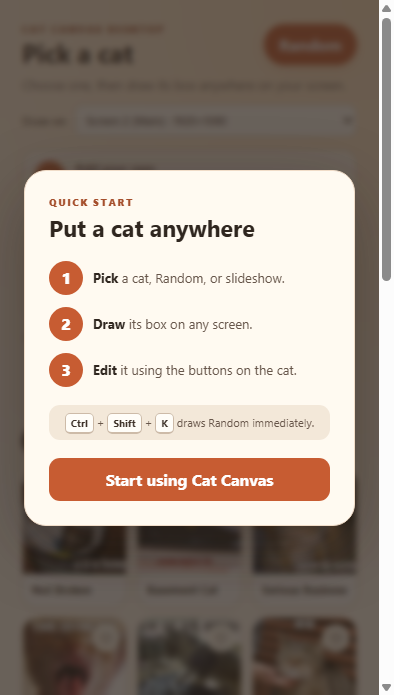
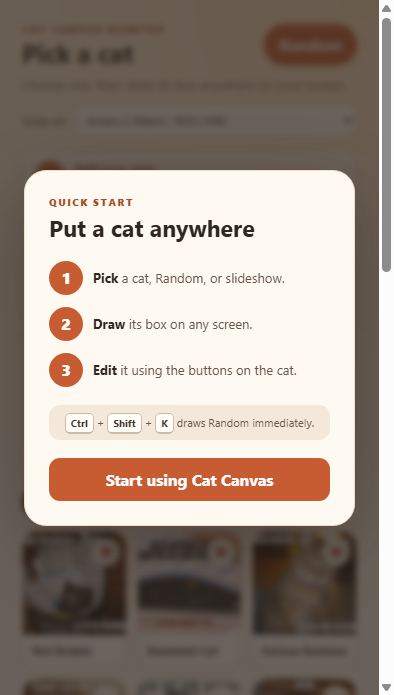
Let users choose the Random shortcut

diff --git a/src/main.js b/src/main.js
@@ -5,8 +5,8 @@ const { pathToFileURL } = require("node:url");
 const cats = require("./cats");
 const { nextDisplayId, slideshowChoices, slideshowDelayMs } = require("./media-utils");
 const { loginLaunchOptions } = require("./startup-utils");
+const { DEFAULT_SHORTCUT, SHORTCUT_CHOICES, normalizeShortcut, shortcutLabel } = require("./shortcut-utils");
 
-const SHORTCUT = "CommandOrControl+Shift+K";
 const VALID_EXTENSIONS = new Set([".jpg", ".jpeg", ".png", ".webp", ".gif"]);
 const MAX_CUSTOM_BYTES = 12 * 1024 * 1024;
 const STARTUP_NAME = "Cat Canvas Desktop";
@@ -17,7 +17,7 @@ const overlayWindows = new Map();
 let tray;
 let quitting = false;
 let activeDrawingRecord;
-let settings = { favorites: [], customMedia: [], startWithWindows: false, tutorialSeen: false };
+let settings = { favorites: [], customMedia: [], startWithWindows: false, tutorialSeen: false, shortcut: DEFAULT_SHORTCUT };
 
 function log(message) {
   try {
@@ -44,10 +44,11 @@ function loadSettings() {
         ? parsed.customMedia.filter((item) => typeof item?.path === "string" && fs.existsSync(item.path))
         : [],
       startWithWindows: parsed.startWithWindows === true,
-      tutorialSeen: parsed.tutorialSeen === true
+      tutorialSeen: parsed.tutorialSeen === true,
+      shortcut: normalizeShortcut(parsed.shortcut)
     };
   } catch {
-    settings = { favorites: [], customMedia: [], startWithWindows: false, tutorialSeen: false };
+    settings = { favorites: [], customMedia: [], startWithWindows: false, tutorialSeen: false, shortcut: DEFAULT_SHORTCUT };
   }
 }
 
@@ -104,7 +105,12 @@ function publicState() {
   return {
     cats: [...builtInMedia(), ...customMedia()],
     favorites: settings.favorites,
-    shortcut: process.platform === "darwin" ? "Cmd+Shift+K" : "Ctrl+Shift+K",
+    shortcut: shortcutLabel(settings.shortcut),
+    shortcutAccelerator: settings.shortcut,
+    shortcutChoices: SHORTCUT_CHOICES.map((choice) => ({
+      accelerator: choice.accelerator,
+      label: shortcutLabel(choice.accelerator)
+    })),
     startWithWindows: settings.startWithWindows,
     tutorialSeen: settings.tutorialSeen,
     screens: displays.map((display, index) => ({
@@ -254,19 +260,43 @@ function startDrawing(id = "random", slideshow = [], slideshowDelay = 10000, dis
   if (pickerWindow && !pickerWindow.isDestroyed()) pickerWindow.hide();
 }
 
-function createTray() {
-  tray = new Tray(path.join(app.getAppPath(), "assets", "icons", "icon-32.png"));
-  tray.setToolTip("Cat Canvas Desktop");
+function updateTrayMenu() {
+  if (!tray) return;
   tray.setContextMenu(Menu.buildFromTemplate([
     { label: "Open Cat Picker", click: showPicker },
-    { label: "Draw Random Cat", accelerator: SHORTCUT, click: () => startDrawing("random") },
+    { label: `Draw Random Cat (${shortcutLabel(settings.shortcut)})`, click: () => startDrawing("random") },
     { type: "separator" },
     { label: "Unlock All Overlays", click: () => broadcastToOverlays("overlay:unlock-all") },
     { label: "Clear All Overlays", click: () => broadcastToOverlays("overlay:clear") },
     { type: "separator" },
     { label: "Quit", click: () => { quitting = true; app.quit(); } }
   ]));
+}
+
+function createTray() {
+  tray = new Tray(path.join(app.getAppPath(), "assets", "icons", "icon-32.png"));
+  tray.setToolTip("Cat Canvas Desktop");
+  updateTrayMenu();
   tray.on("click", showPicker);
+}
+
+function registerRandomShortcut(accelerator) {
+  return globalShortcut.register(accelerator, () => startDrawing("random"));
+}
+
+function applyRandomShortcut(nextShortcut) {
+  const chosen = normalizeShortcut(nextShortcut);
+  const previous = settings.shortcut;
+  if (chosen === previous && globalShortcut.isRegistered(previous)) return true;
+
+  globalShortcut.unregister(previous);
+  if (registerRandomShortcut(chosen)) {
+    settings.shortcut = chosen;
+    return true;
+  }
+
+  registerRandomShortcut(previous);
+  return false;
 }
 
 function shapeForSize(width, height) {
@@ -353,6 +383,17 @@ ipcMain.handle("tutorial:dismiss", () => {
   settings.tutorialSeen = true;
   saveSettings();
   return publicState();
+});
+ipcMain.handle("shortcut:set", (_event, accelerator) => {
+  const chosen = normalizeShortcut(accelerator);
+  if (!applyRandomShortcut(chosen)) {
+    log(`Could not register shortcut ${chosen}.`);
+    return { state: publicState(), message: "That shortcut is already being used by another app.", error: true };
+  }
+  saveSettings();
+  updateTrayMenu();
+  broadcastState();
+  return { state: publicState(), message: `Random shortcut changed to ${shortcutLabel(settings.shortcut)}.` };
 });
 ipcMain.handle("custom:remove", (_event, id) => {
   settings.customMedia = settings.customMedia.filter((item) => item.id !== id);
@@ -442,7 +483,15 @@ else {
     });
     log("Creating tray.");
     createTray();
-    globalShortcut.register(SHORTCUT, () => startDrawing("random"));
+    if (!registerRandomShortcut(settings.shortcut)) {
+      log(`Could not register saved shortcut ${settings.shortcut}.`);
+      if (settings.shortcut !== DEFAULT_SHORTCUT) {
+        settings.shortcut = DEFAULT_SHORTCUT;
+        if (!registerRandomShortcut(settings.shortcut)) log("Could not register the default Random shortcut.");
+        saveSettings();
+        updateTrayMenu();
+      }
+    }
     log("Cat Canvas Desktop is ready.");
   }).catch((error) => {
     log(`Startup failed: ${error.stack || error.message}`);

diff --git a/src/picker.js b/src/picker.js
@@ -5,7 +5,9 @@ const targetScreen = document.querySelector("#target-screen");
 const startupToggle = document.querySelector("#start-with-windows");
 const tutorial = document.querySelector("#tutorial");
 const closeTutorial = document.querySelector("#close-tutorial");
-let state = { cats: [], favorites: [], shortcut: "Ctrl+Shift+K", screens: [], currentScreenId: "", startWithWindows: false, tutorialSeen: false };
+const shortcutSelect = document.querySelector("#random-shortcut");
+const tutorialShortcut = document.querySelector("#tutorial-shortcut");
+let state = { cats: [], favorites: [], shortcut: "Ctrl+Shift+K", shortcutAccelerator: "CommandOrControl+Shift+K", shortcutChoices: [], screens: [], currentScreenId: "", startWithWindows: false, tutorialSeen: false };
 let currentFilter = "all";
 
 function showTutorial() {
@@ -31,6 +33,25 @@ function renderScreens() {
   targetScreen.value = state.screens.some((screen) => screen.id === previous) ? previous : state.currentScreenId;
 }
 
+function renderShortcut() {
+  shortcutSelect.replaceChildren();
+  for (const choice of state.shortcutChoices) {
+    const option = document.createElement("option");
+    option.value = choice.accelerator;
+    option.textContent = choice.label;
+    shortcutSelect.append(option);
+  }
+  shortcutSelect.value = state.shortcutAccelerator;
+  tutorialShortcut.replaceChildren();
+  const keys = state.shortcut.split("+");
+  keys.forEach((key, index) => {
+    if (index) tutorialShortcut.append(" + ");
+    const keycap = document.createElement("kbd");
+    keycap.textContent = key;
+    tutorialShortcut.append(keycap);
+  });
+}
+
 function visibleCats() {
   const favorites = new Set(state.favorites);
   return state.cats.filter((cat) => {
@@ -43,6 +64,7 @@ function visibleCats() {
 
 function render() {
   renderScreens();
+  renderShortcut();
   startupToggle.checked = Boolean(state.startWithWindows);
   const cats = visibleCats();
   const favorites = new Set(state.favorites);
@@ -148,6 +170,15 @@ startupToggle.addEventListener("change", async () => {
   status.className = `status${result.error ? " error" : ""}`;
   status.textContent = result.message;
   startupToggle.disabled = false;
+  render();
+});
+shortcutSelect.addEventListener("change", async () => {
+  shortcutSelect.disabled = true;
+  const result = await window.catCanvasDesktop.setShortcut(shortcutSelect.value);
+  state = result.state;
+  status.className = `status${result.error ? " error" : ""}`;
+  status.textContent = result.message;
+  shortcutSelect.disabled = false;
   render();
 });
 

diff --git a/tests/media.test.js b/tests/media.test.js
@@ -5,6 +5,7 @@ const test = require("node:test");
 const cats = require("../src/cats");
 const { shapeFor, suitableCats, randomSuitable, wrapIndex, slideshowDelayMs, slideshowChoices, nextDisplayId } = require("../src/media-utils");
 const { loginLaunchOptions } = require("../src/startup-utils");
+const { DEFAULT_SHORTCUT, SHORTCUT_CHOICES, normalizeShortcut, shortcutLabel } = require("../src/shortcut-utils");
 
 test("the built-in pack contains 12 stills and 12 GIFs", () => {
   assert.equal(cats.length, 24);
@@ -93,5 +94,12 @@ test("the picker includes a reusable first-time guide", () => {
   const picker = fs.readFileSync(path.join(__dirname, "..", "src", "picker.html"), "utf8");
   assert.match(picker, /id="tutorial"/);
   assert.match(picker, /id="show-tutorial"/);
-  assert.match(picker, /Ctrl<\/kbd> \+ <kbd>Shift<\/kbd> \+ <kbd>K/);
+  assert.match(picker, /id="tutorial-shortcut"/);
+});
+
+test("Random shortcut choices are limited to safe presets", () => {
+  assert.equal(SHORTCUT_CHOICES.length, 4);
+  assert.equal(normalizeShortcut("not-a-shortcut"), DEFAULT_SHORTCUT);
+  assert.equal(shortcutLabel("CommandOrControl+Alt+K", "win32"), "Ctrl+Alt+K");
+  assert.equal(shortcutLabel(DEFAULT_SHORTCUT, "darwin"), "Cmd+Shift+K");
 });

diff --git a/scripts/capture-picker-preload.js b/scripts/capture-picker-preload.js
@@ -10,6 +10,13 @@ const state = {
   })),
   favorites: [cats[0].id, cats[1].id, cats[2].id],
   shortcut: "Ctrl+Shift+K",
+  shortcutAccelerator: "CommandOrControl+Shift+K",
+  shortcutChoices: [
+    { accelerator: "CommandOrControl+Shift+K", label: "Ctrl+Shift+K" },
+    { accelerator: "CommandOrControl+Shift+C", label: "Ctrl+Shift+C" },
+    { accelerator: "CommandOrControl+Alt+K", label: "Ctrl+Alt+K" },
+    { accelerator: "Alt+Shift+K", label: "Alt+Shift+K" }
+  ],
   startWithWindows: false,
   tutorialSeen: !process.argv.includes("--tutorial"),
   screens: [
@@ -29,6 +36,11 @@ contextBridge.exposeInMainWorld("catCanvasDesktop", {
   startSlideshow: async () => ({ started: true, message: "Demo" }),
   setStartWithWindows: async () => ({ state, message: "Demo" }),
   dismissTutorial: async () => state,
+  setShortcut: async (accelerator) => {
+    state.shortcutAccelerator = accelerator;
+    state.shortcut = state.shortcutChoices.find((choice) => choice.accelerator === accelerator)?.label || state.shortcut;
+    return { state, message: "Demo" };
+  },
   clearAll: () => {},
   hidePicker: () => {},
   onStateChanged: () => {}

diff --git a/src/picker.html b/src/picker.html
@@ -17,7 +17,7 @@
           <li><span>2</span><p><strong>Draw</strong> its box on any screen.</p></li>
           <li><span>3</span><p><strong>Edit</strong> it using the buttons on the cat.</p></li>
         </ol>
-        <p class="tutorial-tip"><kbd>Ctrl</kbd> + <kbd>Shift</kbd> + <kbd>K</kbd> draws Random immediately.</p>
+        <p class="tutorial-tip"><span id="tutorial-shortcut" class="shortcut-keys"></span> draws Random immediately.</p>
         <button id="close-tutorial" class="tutorial-close" type="button">Start using Cat Canvas</button>
       </div>
     </section>
@@ -68,6 +68,11 @@
     <label class="startup-setting">
       <span><strong>Start with Windows</strong><small>Open quietly in the tray after sign-in</small></span>
       <input id="start-with-windows" type="checkbox" role="switch" />
+    </label>
+
+    <label class="shortcut-setting">
+      <span><strong>Random shortcut</strong><small>Draw immediately from anywhere</small></span>
+      <select id="random-shortcut" aria-label="Random cat keyboard shortcut"></select>
     </label>
 
     <nav class="filters" aria-label="Media filters">

diff --git a/src/picker.css b/src/picker.css
@@ -123,6 +123,12 @@ h1 { margin: 0; font-size: 25px; line-height: 1.1; }
 .startup-setting input:checked { border-color: #c75c32; background: #c75c32; }
 .startup-setting input:checked::after { transform: translateX(16px); }
 .startup-setting input:disabled { opacity: .55; cursor: wait; }
+.shortcut-setting { display: flex; align-items: center; justify-content: space-between; gap: 14px; margin: -7px 0 14px; padding: 10px 12px; border: 1px solid #eadccb; border-radius: 13px; background: #fffdf8; }
+.shortcut-setting strong, .shortcut-setting small { display: block; }
+.shortcut-setting strong { font-size: 12px; }
+.shortcut-setting small { margin-top: 2px; color: #8b7768; font-size: 10px; }
+.shortcut-setting select { min-width: 112px; border: 1px solid #d9c7b5; border-radius: 8px; padding: 6px; color: #4f4035; background: #fffdf8; font: 700 10px system-ui, sans-serif; }
+.shortcut-setting select:disabled { opacity: .55; cursor: wait; }
 footer { margin-top: 16px; padding-top: 12px; border-top: 1px solid #eadfce; }
 .status { margin: 0 0 10px; }
 .status.error { color: #ad342f; }

diff --git a/src/shortcut-utils.js b/src/shortcut-utils.js
@@ -1,0 +1,19 @@
+const SHORTCUT_CHOICES = Object.freeze([
+  { accelerator: "CommandOrControl+Shift+K", label: "Ctrl+Shift+K" },
+  { accelerator: "CommandOrControl+Shift+C", label: "Ctrl+Shift+C" },
+  { accelerator: "CommandOrControl+Alt+K", label: "Ctrl+Alt+K" },
+  { accelerator: "Alt+Shift+K", label: "Alt+Shift+K" }
+]);
+
+const DEFAULT_SHORTCUT = SHORTCUT_CHOICES[0].accelerator;
+
+function normalizeShortcut(value) {
+  return SHORTCUT_CHOICES.some((choice) => choice.accelerator === value) ? value : DEFAULT_SHORTCUT;
+}
+
+function shortcutLabel(value, platform = process.platform) {
+  const choice = SHORTCUT_CHOICES.find((item) => item.accelerator === normalizeShortcut(value));
+  return platform === "darwin" ? choice.label.replaceAll("Ctrl", "Cmd") : choice.label;
+}
+
+module.exports = { DEFAULT_SHORTCUT, SHORTCUT_CHOICES, normalizeShortcut, shortcutLabel };

diff --git a/src/preload.js b/src/preload.js
@@ -9,6 +9,7 @@ contextBridge.exposeInMainWorld("catCanvasDesktop", {
   startSlideshow: (source, seconds, displayId) => ipcRenderer.invoke("slideshow:start", source, seconds, displayId),
   setStartWithWindows: (enabled) => ipcRenderer.invoke("startup:set", enabled),
   dismissTutorial: () => ipcRenderer.invoke("tutorial:dismiss"),
+  setShortcut: (accelerator) => ipcRenderer.invoke("shortcut:set", accelerator),
   clearAll: () => ipcRenderer.send("overlay:clear"),
   hidePicker: () => ipcRenderer.send("picker:hide"),
   setIgnoreMouse: (ignore) => ipcRenderer.send("overlay:ignore-mouse", Boolean(ignore)),

diff --git a/README.md b/README.md
@@ -13,6 +13,7 @@ Prefer a browser-only version? Try the [Cat Canvas Chrome extension](https://git
 ## What it does
 
 - Press `Ctrl+Shift+K` to draw a Random cat immediately
+- Choose from four safe keyboard shortcuts for drawing Random
 - Pick from 12 licensed meme images and 12 licensed GIFs
 - Add your own JPG, PNG, WebP, or GIF
 - Run a slideshow using Random, Favorites, My media, or GIFs
@@ -43,6 +44,8 @@ This first release is not code-signed, so Windows may show a SmartScreen warning
 5. Drag its bottom-right corner to resize it.
 
 Select **How it works** in the picker to reopen the quick guide.
+
+Use **Random shortcut** in the picker to change the keyboard shortcut. If another app already uses your choice, Cat Canvas keeps the old shortcut.
 
 ![Cat Canvas first-time guide](docs/tutorial.png)
 

diff --git a/ROADMAP.md b/ROADMAP.md
@@ -4,6 +4,7 @@
 
 - Windows app with a tray icon
 - Global Random shortcut
+- Choice of four safe Random shortcuts
 - Optional Start with Windows setting
 - First-time quick guide that can be reopened later
 - Licensed built-in cats and local custom media
@@ -14,7 +15,6 @@
 ## Good next improvements
 
 - More ways to move placed media between monitors
-- Changeable keyboard shortcut
 - Small optional animal packs
 - Better keyboard accessibility
 - Signed Windows releases if the project grows

diff --git a/PRIVACY.md b/PRIVACY.md
@@ -8,6 +8,8 @@ The optional Start with Windows choice is saved locally and registered in your W
 
 The app saves only whether you have closed the first-time guide, so it does not keep showing automatically.
 
+Your Random keyboard shortcut choice is also saved in the local settings file.
+
 Slideshows use media already available inside Cat Canvas. Their temporary play order is not saved.
 
 There are no accounts, analytics, ads, uploads, cloud services, or runtime network requests.
